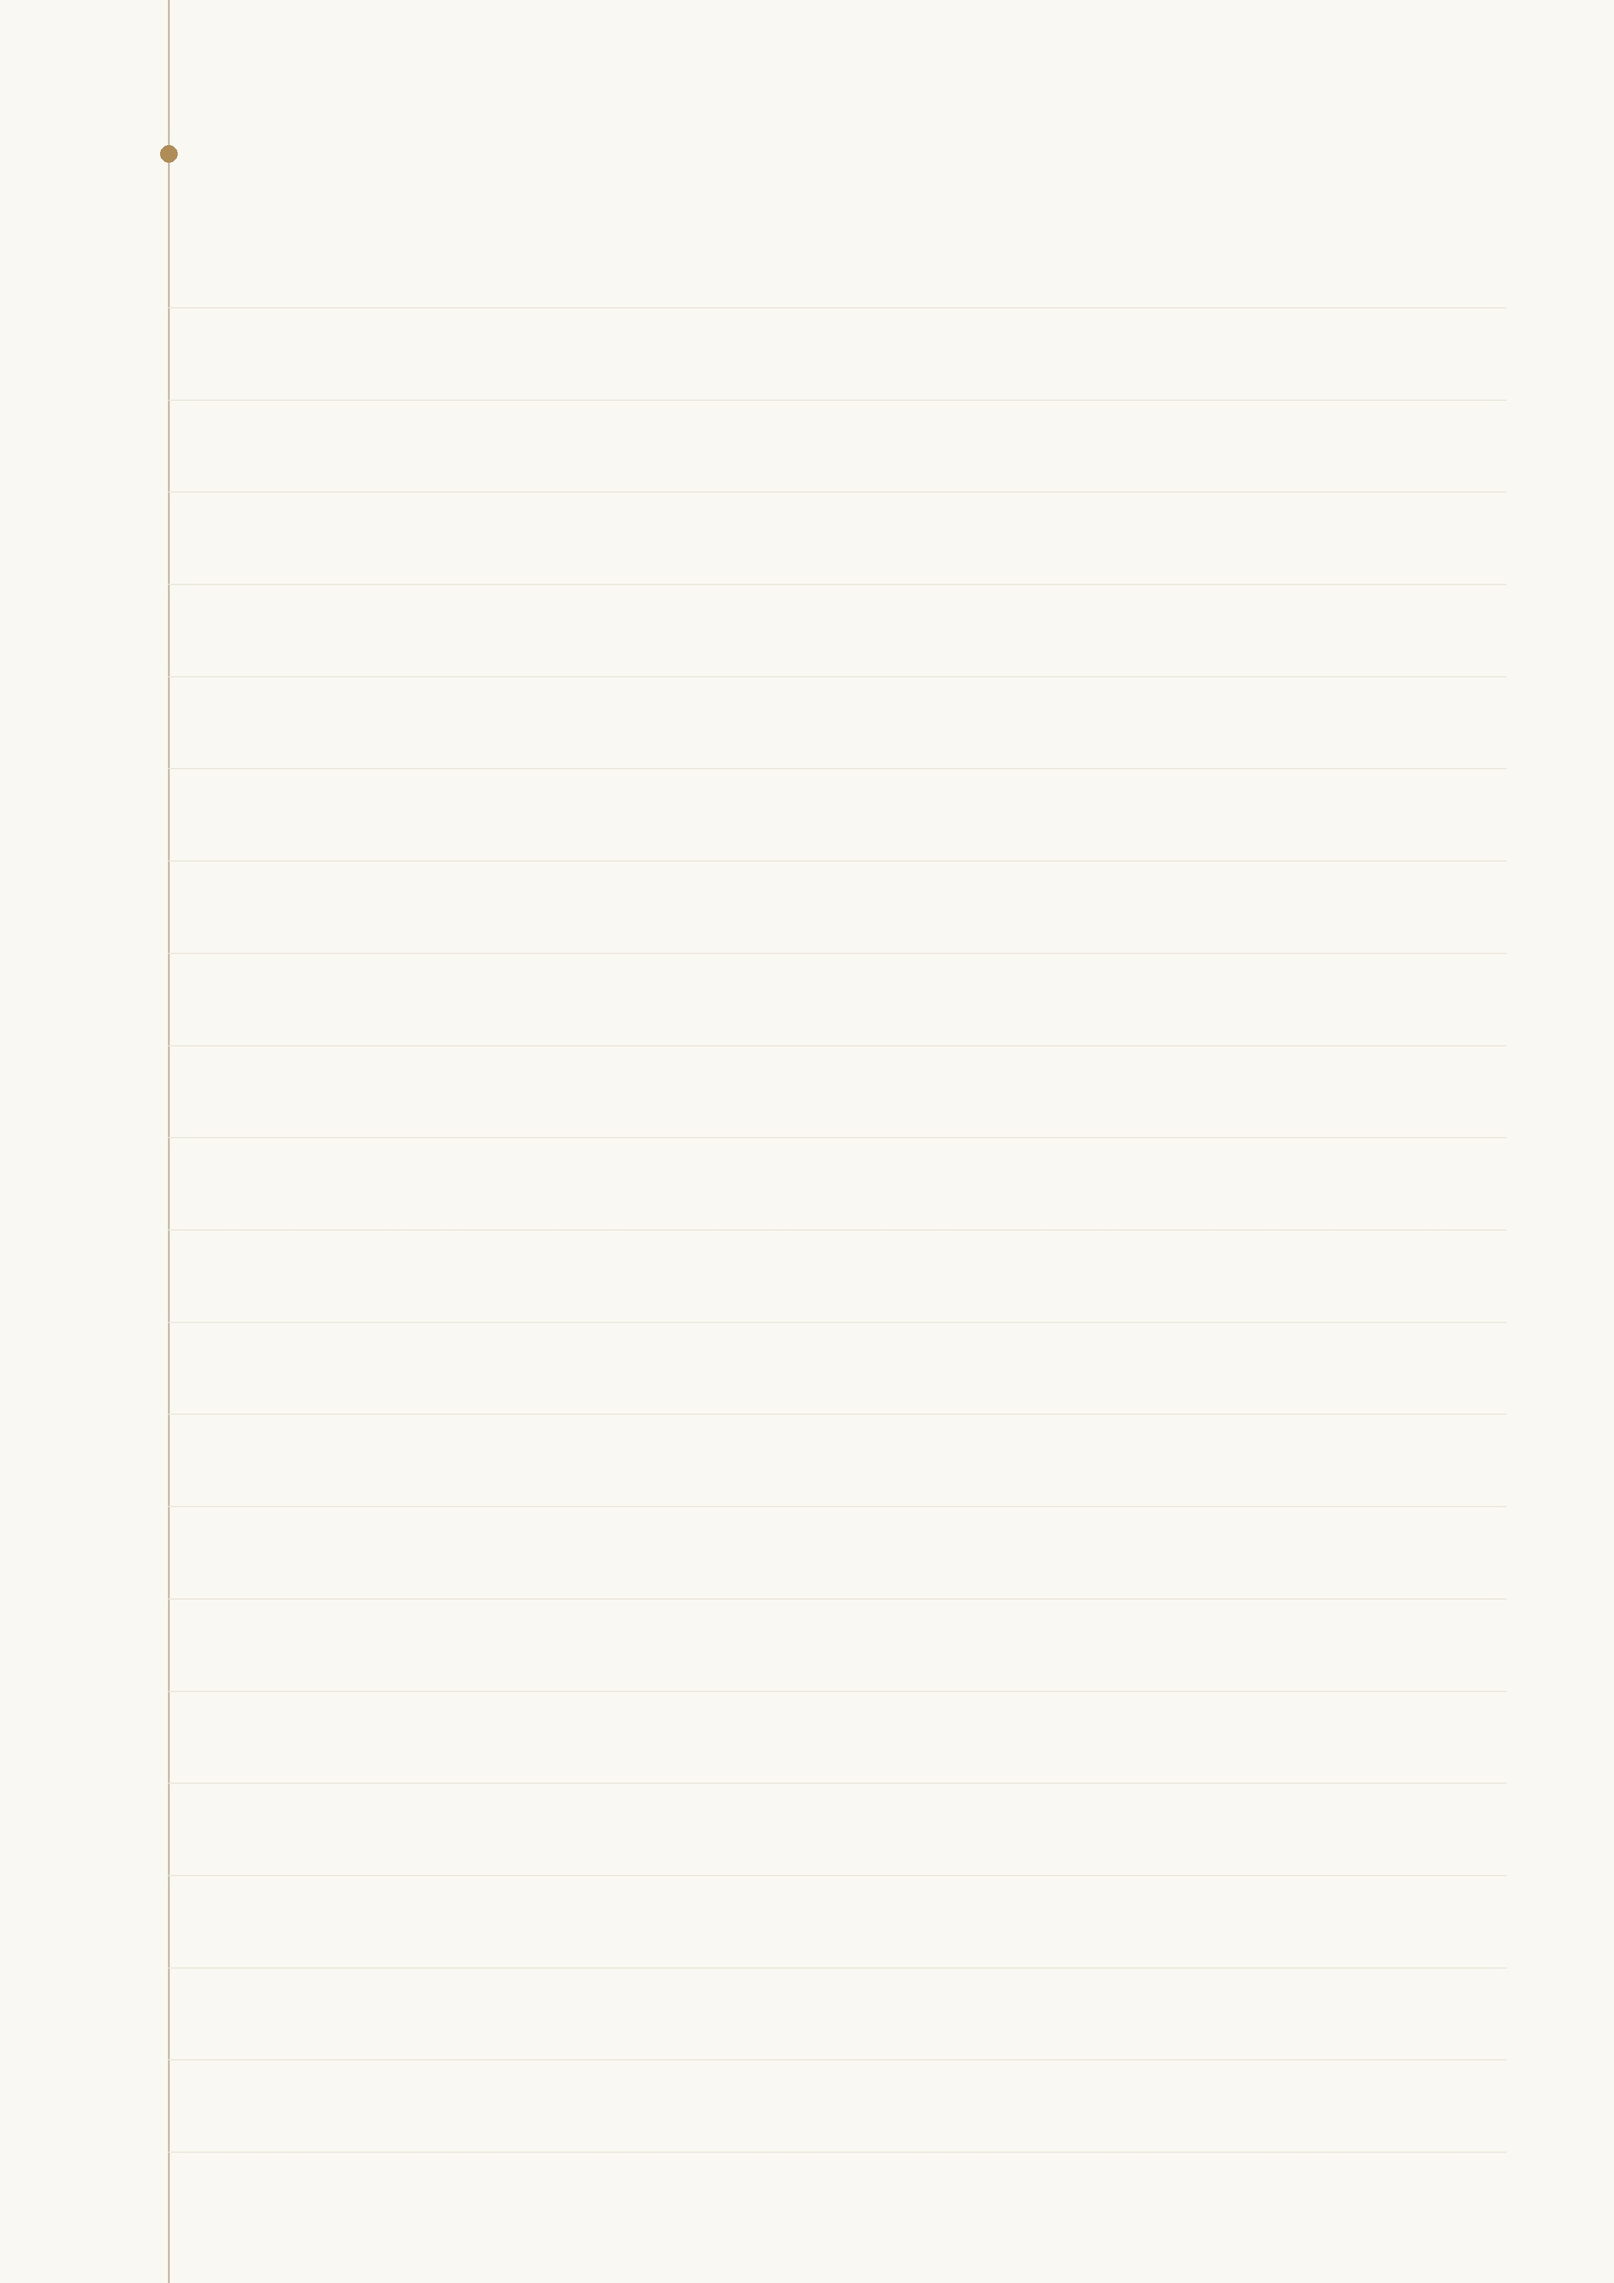
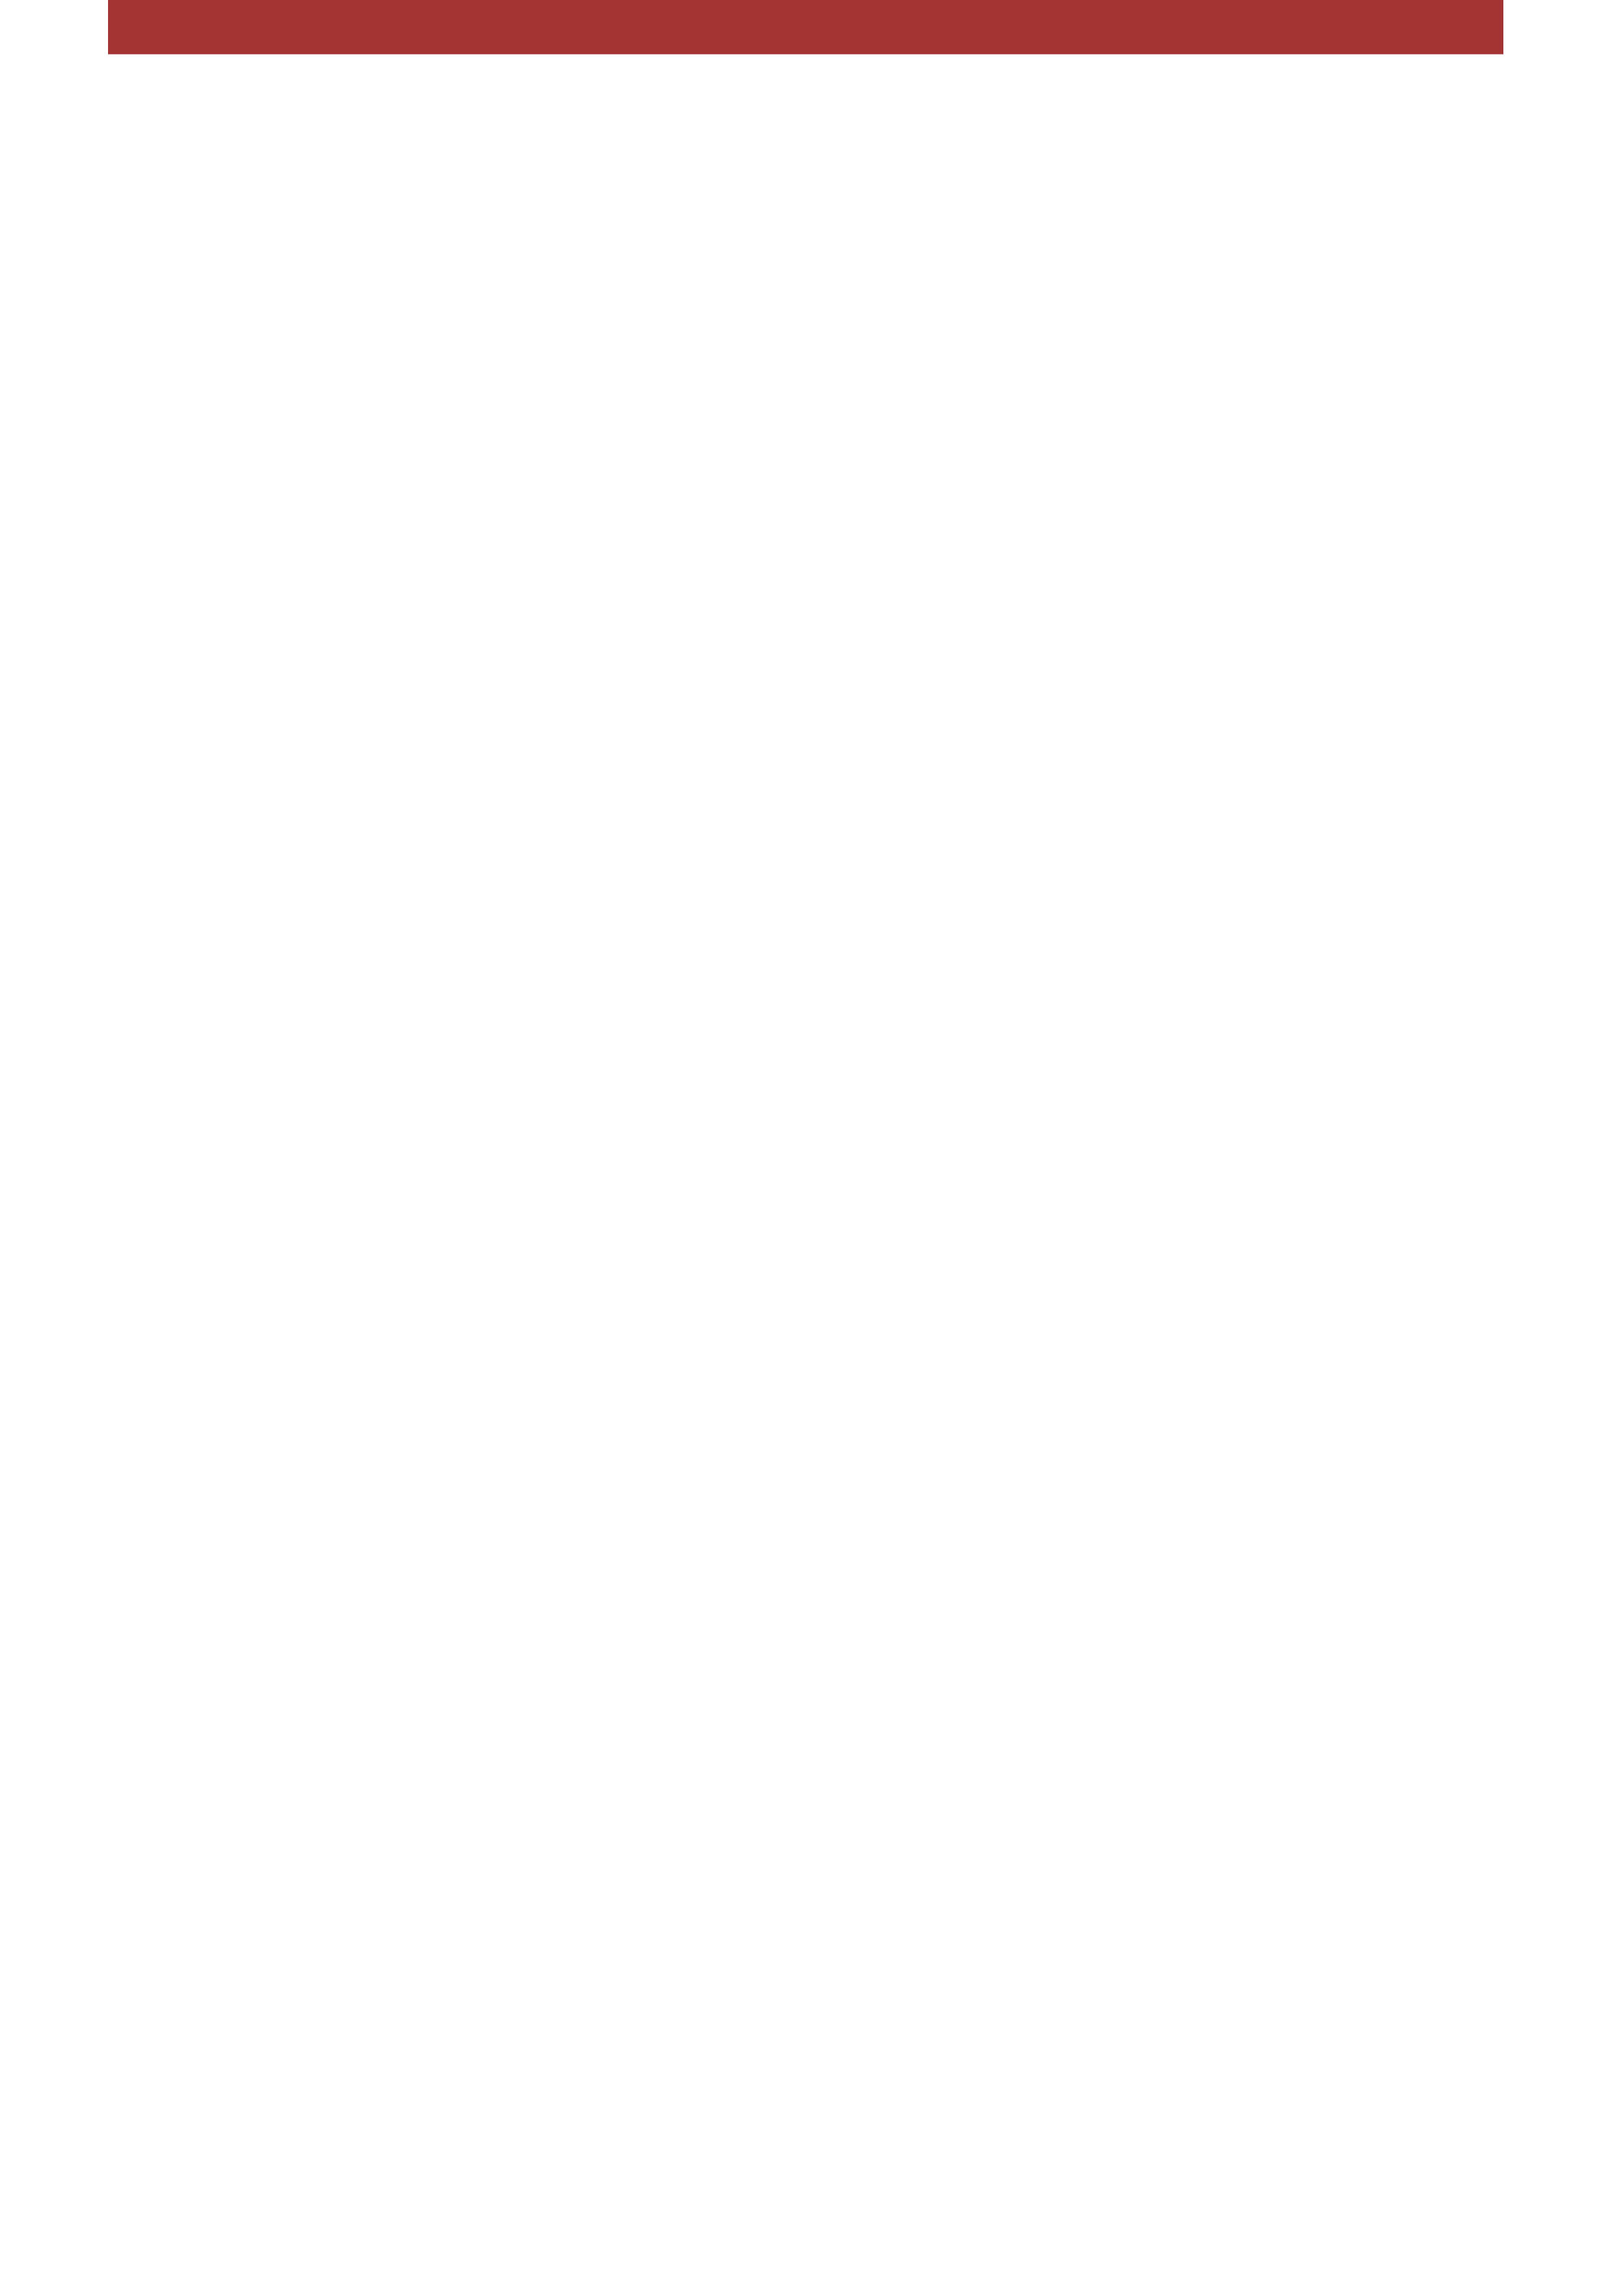
zzzzz

Changed region(s): [[0.0621, 0.0, 0.9315, 0.0311], [0.0931, 0.0621, 0.1242, 0.0932]]

diff --git a/app/Helper/resume_helper.php b/app/Helper/resume_helper.php
@@ -24,7 +24,7 @@ if ( ! function_exists('zeecv_templates')){
             'temp3'=>[
                 'color'=>'#c7885c',
                 'template'=>'temp3',
-                'thumbnail'=>asset('resume/templates/temp2.png'),
+                'thumbnail'=>asset('resume/templates/temp3.png'),
                 'name'=>'Template 3'
                 ],
             'marketer'=>[
